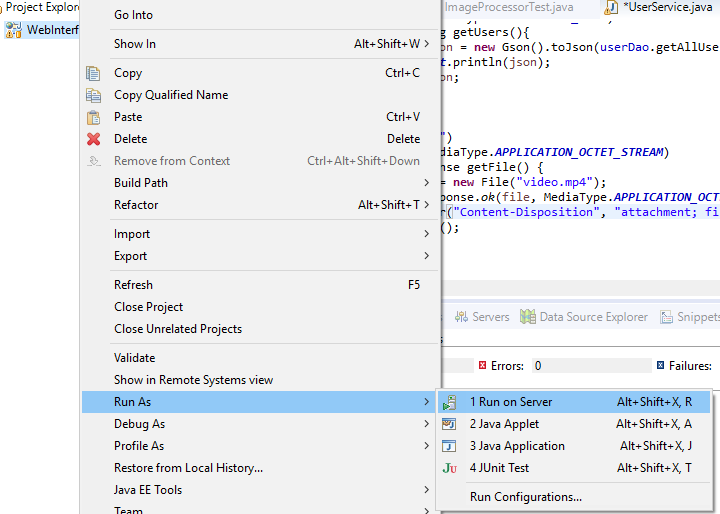
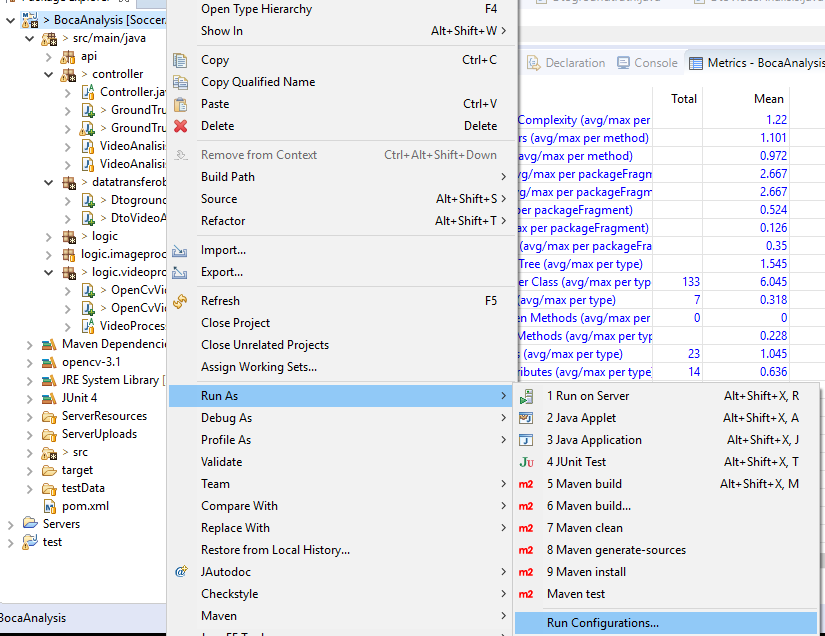
Imgs

diff --git a/README.md b/README.md
@@ -4,14 +4,15 @@ This is an analysis of soccer videos
 ## Table of Contents
 1. [Requirements](#requeriments)
 2. [OpenCV Installation](#opencv-installation)
+3. [DLLs Installation](#dlls-installation)
 3. [Web Server Installation](#web-server-installation)
 
 ### Requeriments
 
-- JDK 8.0 or above
-- Tomcat 8.0 (Included inside Git)
-- Eclipse Neon EE
+- JDK 8.1 or above
+- Eclipse Neon Jee
 - OpenCV-3.1
+- DLLs
 
 ### OpenCv Installation
 1. Download the library opencv-3.1 from the followin link: https://sourceforge.net/projects/opencvlibrary/files/opencv-win/3.1.0/opencv-3.1.0.exe/download
@@ -20,28 +21,36 @@ This is an analysis of soccer videos
 4. While you are installing opencv in your Eclipse IDE, it´s important to name it "opencv-3.1".
 5. Copy the file opencv\build\bin\opencv_ffmpeg310_64.dll into opencv\build\java\x64 
 
+### DLLs Installation
+
+DLLs requiered for running the tests or/and the server full functionality.
+Copy the DLLs in the folder Dependencies and paste them on: C:\opencv\build\java\x64
+The project wont work unless you do this last step. 
+
 
 ### Web Server Installation
 
-This is used to deploy the UI interface, when it's deployed it can be accesed through "localhost:8080/WebInterface/".
-We decided to use TomCat 8.0, and we use some PATH variables from TomCat in the API package, so it's of great importance
-to use the version included inside the Git. 
+This is used to deploy the UI interface, when it's deployed it can be accesed through "localhost:8080".
+We decided to use Jetty's and Maven integrated server, so here is the basic configuration 
 
 1. Right Click on the project -> Run as -> Run on Server
 
 	![Alt text](ImagesReadme/Tutorial1.png?raw=true "Tutorial1")
-2. Select Apache Folder
+
+2. Select Maven Build - New 
 
 	![Alt text](ImagesReadme/Tutorial2.png?raw=true "Tutorial2")
 
-3. Select TomCat 8.0 Server
+3. Fill in the next three boxes highlited by the red boxes.
 
 	![Alt text](ImagesReadme/Tutorial3.png?raw=true "Tutorial3")
 
-4. In the Tomcat Installation Server option, browse and select the following path: ...\SoccerAnalysis\server\apache-tomcat-8.0.36 
+4. In the JRE Tab make sure its selected the workspace defualt JRE and it sshould be a JDK one as seen on the image, not a JRE
 
-	**Note** the dots refer to the path where the project is located.
+		![Alt text](ImagesReadme/Tutorial4.png?raw=true "Tutorial4")
 
-	![Alt text](ImagesReadme/Tutorial4.png?raw=true "Tutorial4")
+	**Note** if your default is on JRE, close the run configurations, go to Window -> Preferences -> Java -> Installed JRE's and add the jdk folder and/or check the jdk box and apply. 
 
-	TomCat should execute and you should be ready to access the web page.
+5. In the same tab, add the next VM arguments: -Djava.library.path=C:\opencv\build\java\x64 hit apply and run.
+
+			![Alt text](ImagesReadme/Tutorial5.png?raw=true "Tutorial5")
